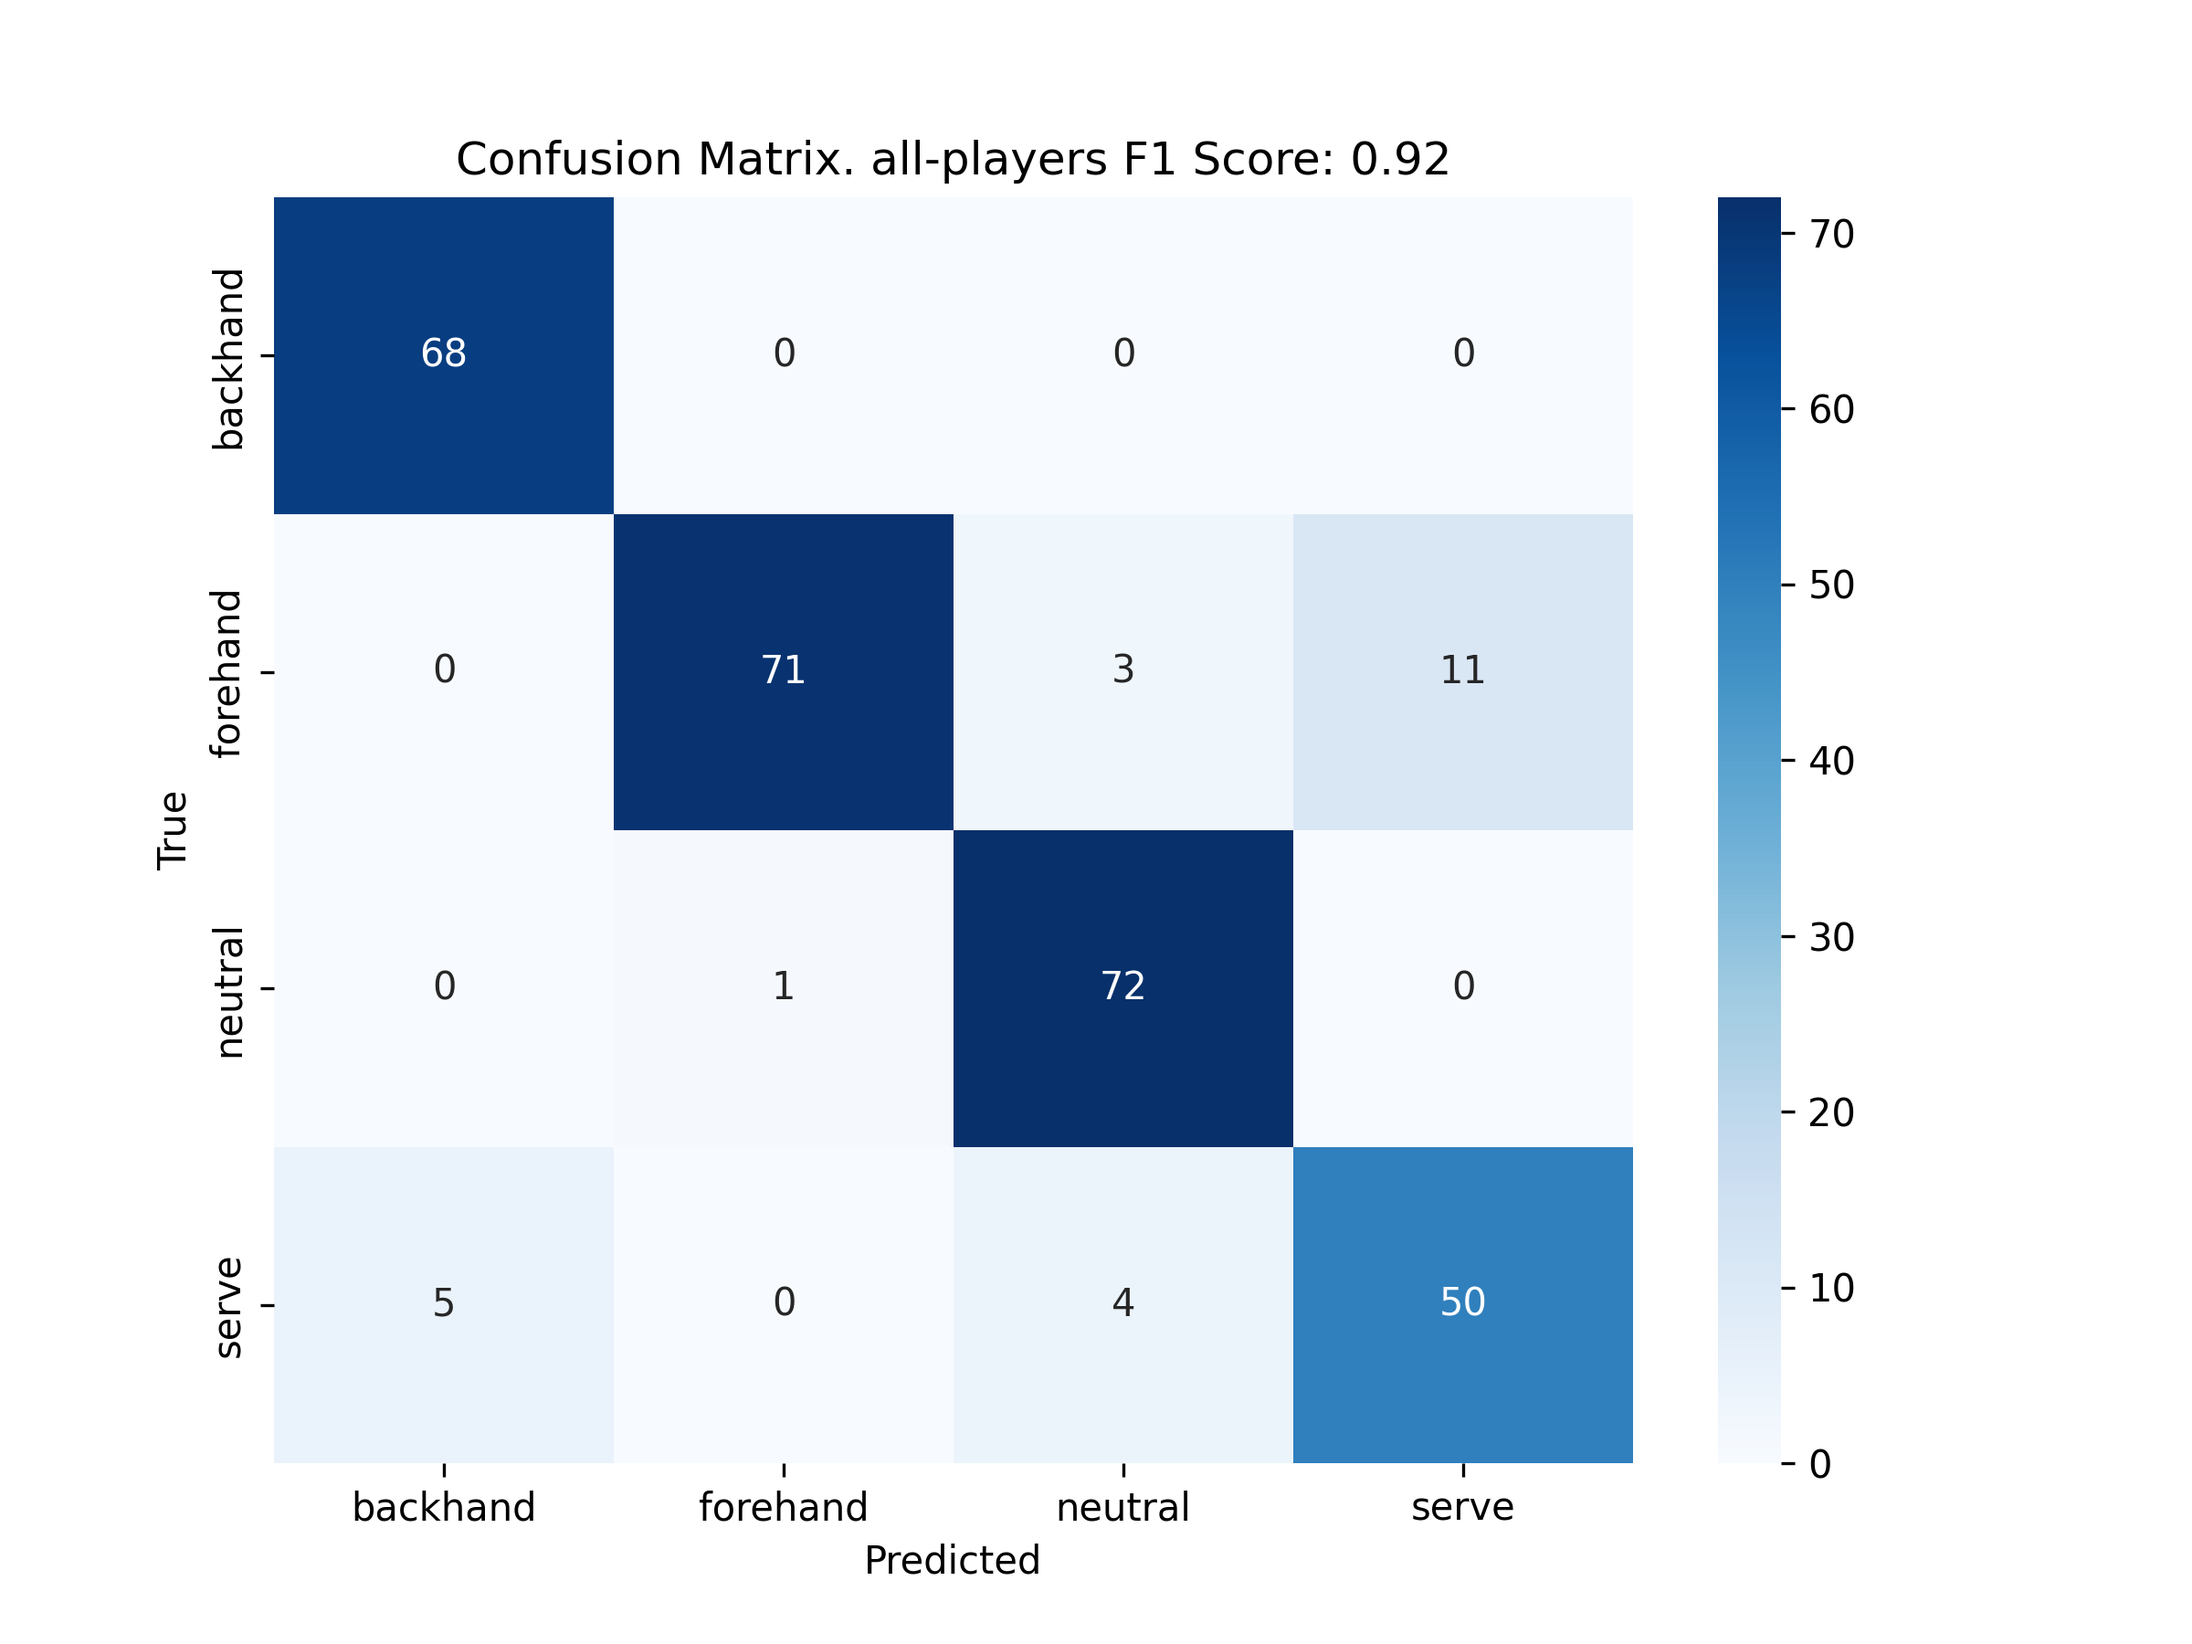
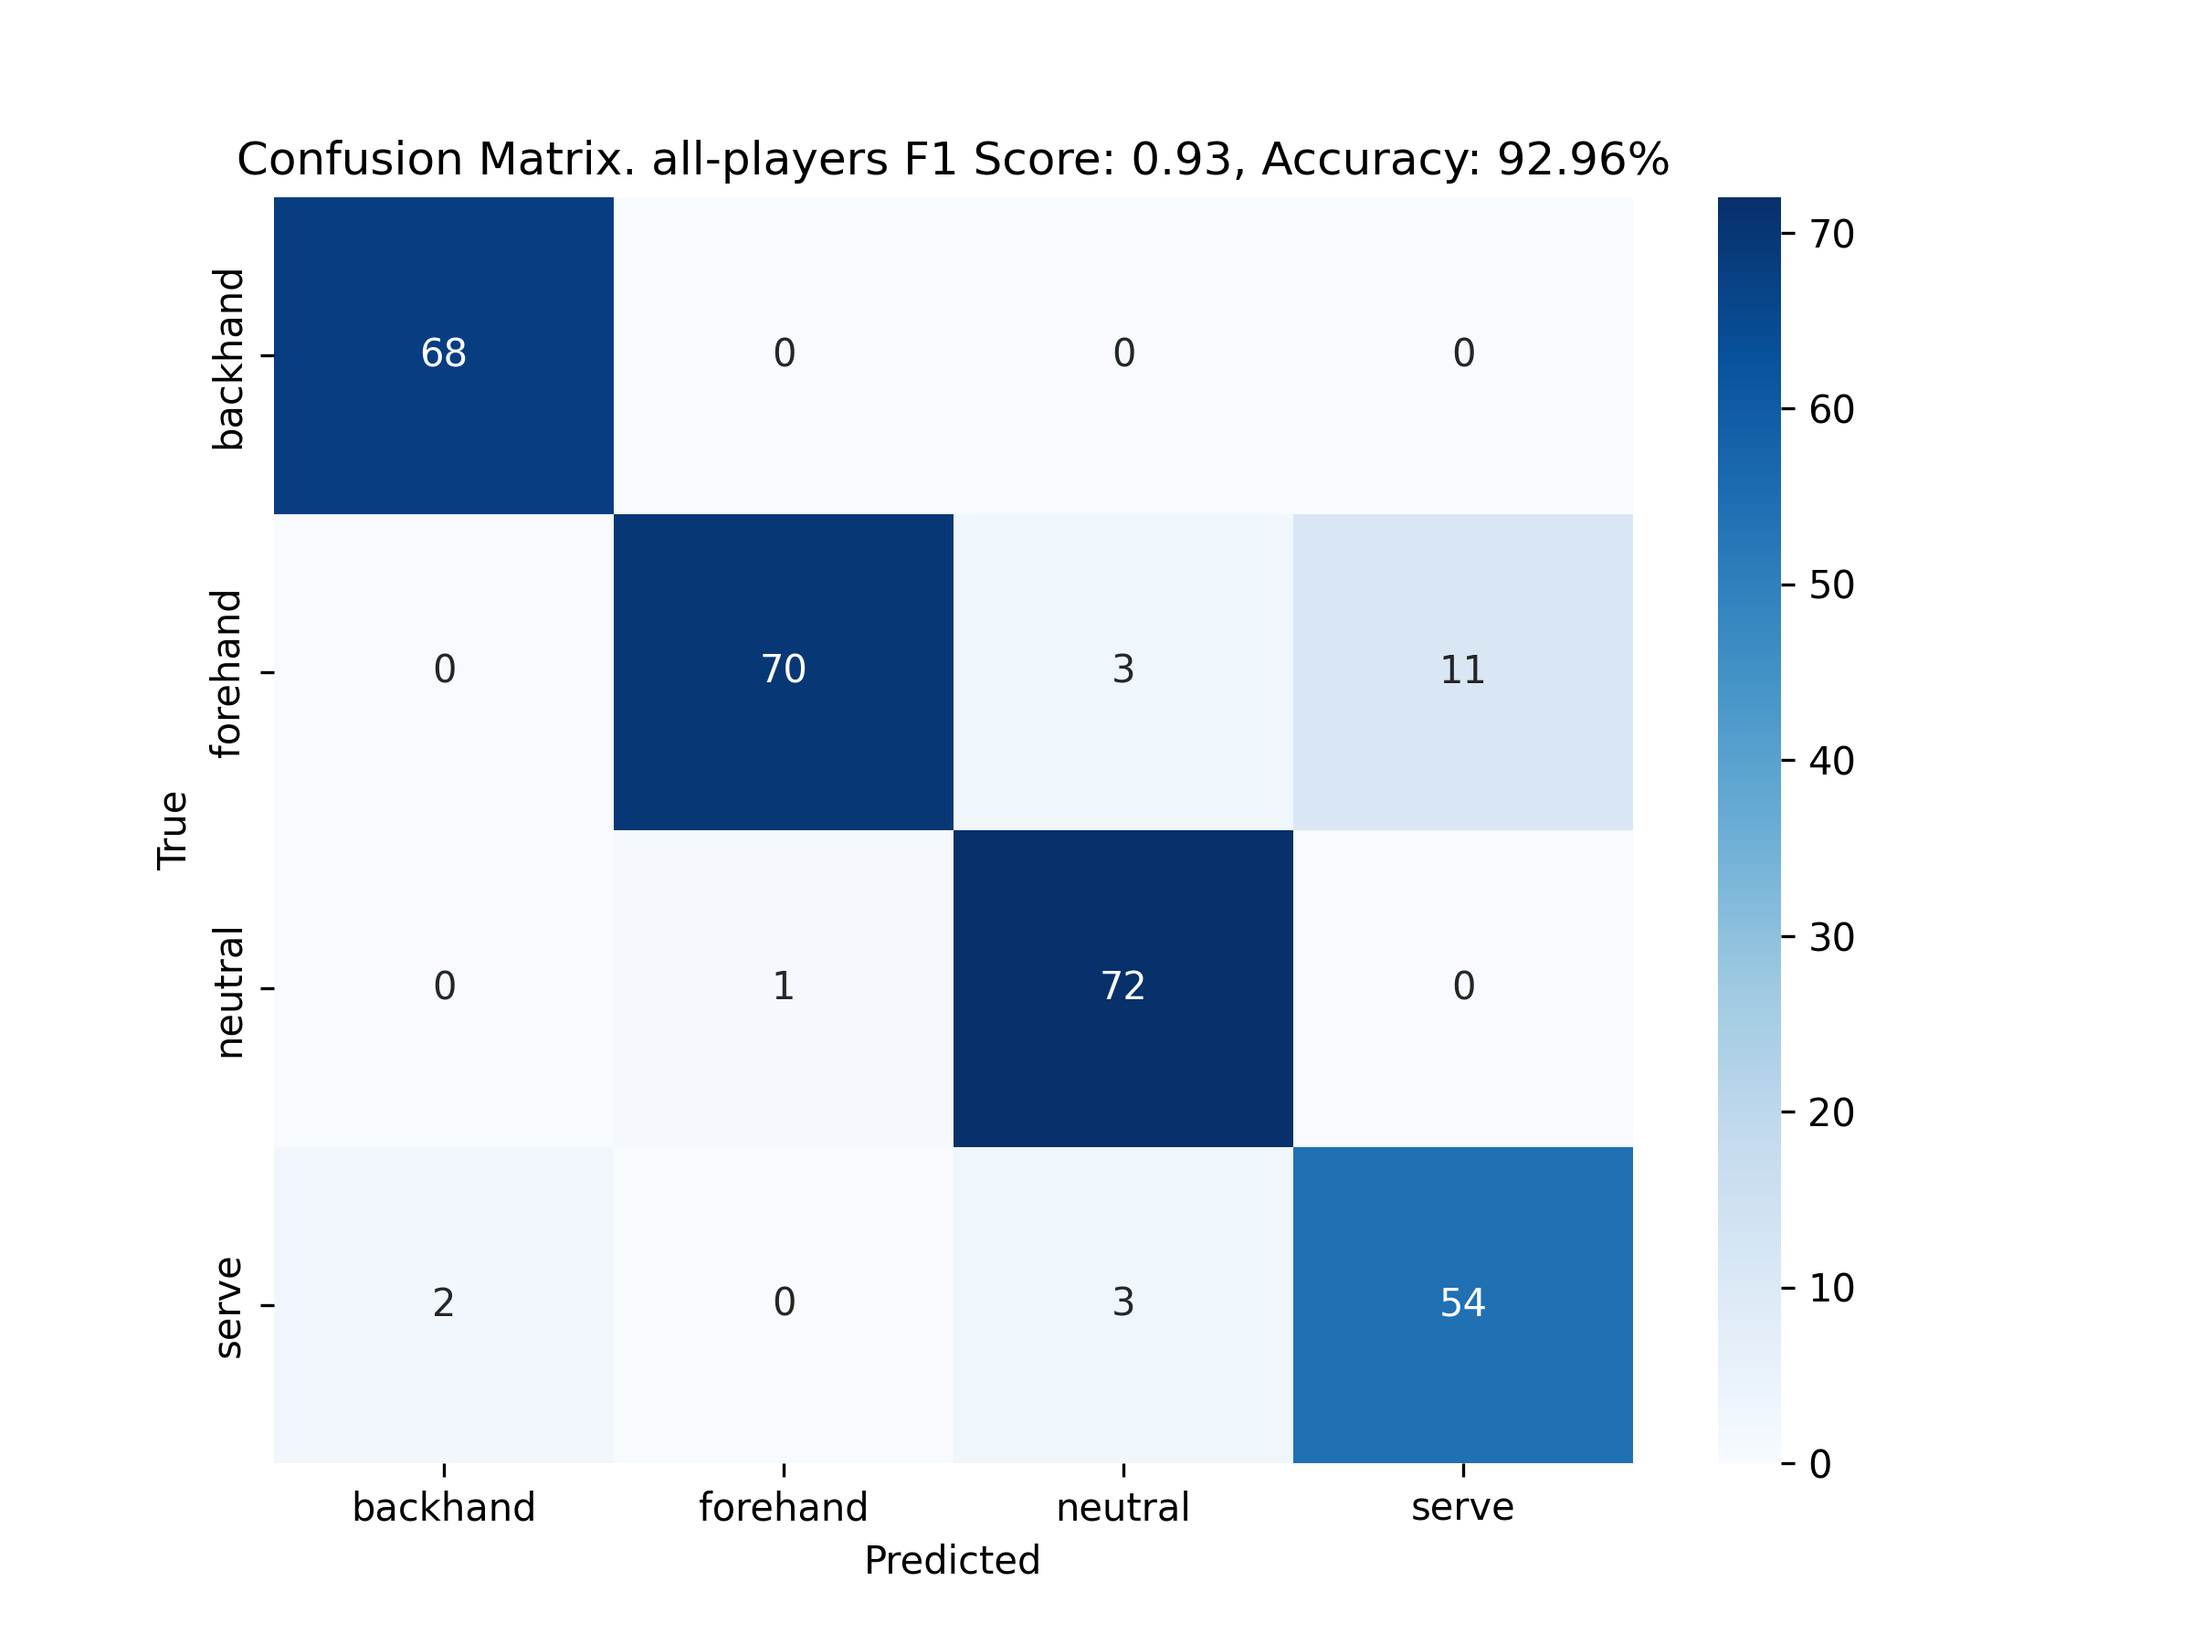
Adding accuracy to classification model

Changed region(s): [[0.125, 0.0622, 0.75, 0.1244], [0.6562, 0.7778, 0.6875, 0.8089]]

diff --git a/scripts/evaluation/classification/compute.py b/scripts/evaluation/classification/compute.py
@@ -1,7 +1,6 @@
 import sys
-sys.path.append("/media/4tbdrive/engines/cs230/scripts/train/")
-sys.path.append("/media/4tbdrive/engines/cs230/scripts/")
-sys.path.append("/media/4tbdrive/engines/cs230/")
+sys.path.append("scripts/train/")
+sys.path.append("scripts/")
 
 import random
 import tensorflow as tf
@@ -9,8 +8,7 @@ from tensorflow.keras.models import load_model,Model
 import numpy as np
 from sklearn.metrics.pairwise import cosine_similarity
 import itertools
-from sklearn.metrics import f1_score
-from sklearn.metrics import confusion_matrix
+from sklearn.metrics import f1_score, confusion_matrix, accuracy_score
 import matplotlib.pyplot as plt
 import seaborn as sns
 from tools.dataloader import DataLoader
@@ -40,19 +38,21 @@ def compute_f1(players, players_type):
             y_pred.append(predicted_class[0])
     print("Total predictions:", total_preds)
     f1 = f1_score(y_true, y_pred, average='weighted')
+    accuracy = accuracy_score(y_true, y_pred)
     cm = confusion_matrix(y_true, y_pred)
     print("Confusion Matrix:\n", cm)
+    print("Accuracy: {:.2f}%".format(accuracy * 100))
     plt.figure(figsize=(8, 6))
     sns.heatmap(cm, annot=True, fmt='d', cmap='Blues', xticklabels=swings, yticklabels=swings)
     plt.xlabel('Predicted')
     plt.ylabel('True')
-    plt.title('Confusion Matrix. {} F1 Score: {:.2f}'.format(players_type, f1))
+    plt.title('Confusion Matrix. {} F1 Score: {:.2f}, Accuracy: {:.2f}%'.format(players_type, f1, accuracy * 100))
     plt.savefig(f'confusion_matrix_{players_type}.png', dpi=300)  # Save as PNG with high resolution
     plt.close()  # Close the plot to free up memory
-    return f1
+    return f1, accuracy
 
 # we use only f1 score as the dataset is imbalanced
-print("F1 Score for pro players:", compute_f1(pro_players, "pro-players"))
-print("F1 Score for amateur players:", compute_f1(amateur_players, "amateur-players"))
-print("F1 Score for all players:", compute_f1(pro_players + amateur_players, "all-players"))
+print("F1 Score and accuracy for pro players:", compute_f1(pro_players, "pro-players"))
+print("F1 Score and accuracy for amateur players:", compute_f1(amateur_players, "amateur-players"))
+print("F1 Score and accuracy for all players:", compute_f1(pro_players + amateur_players, "all-players"))
 
